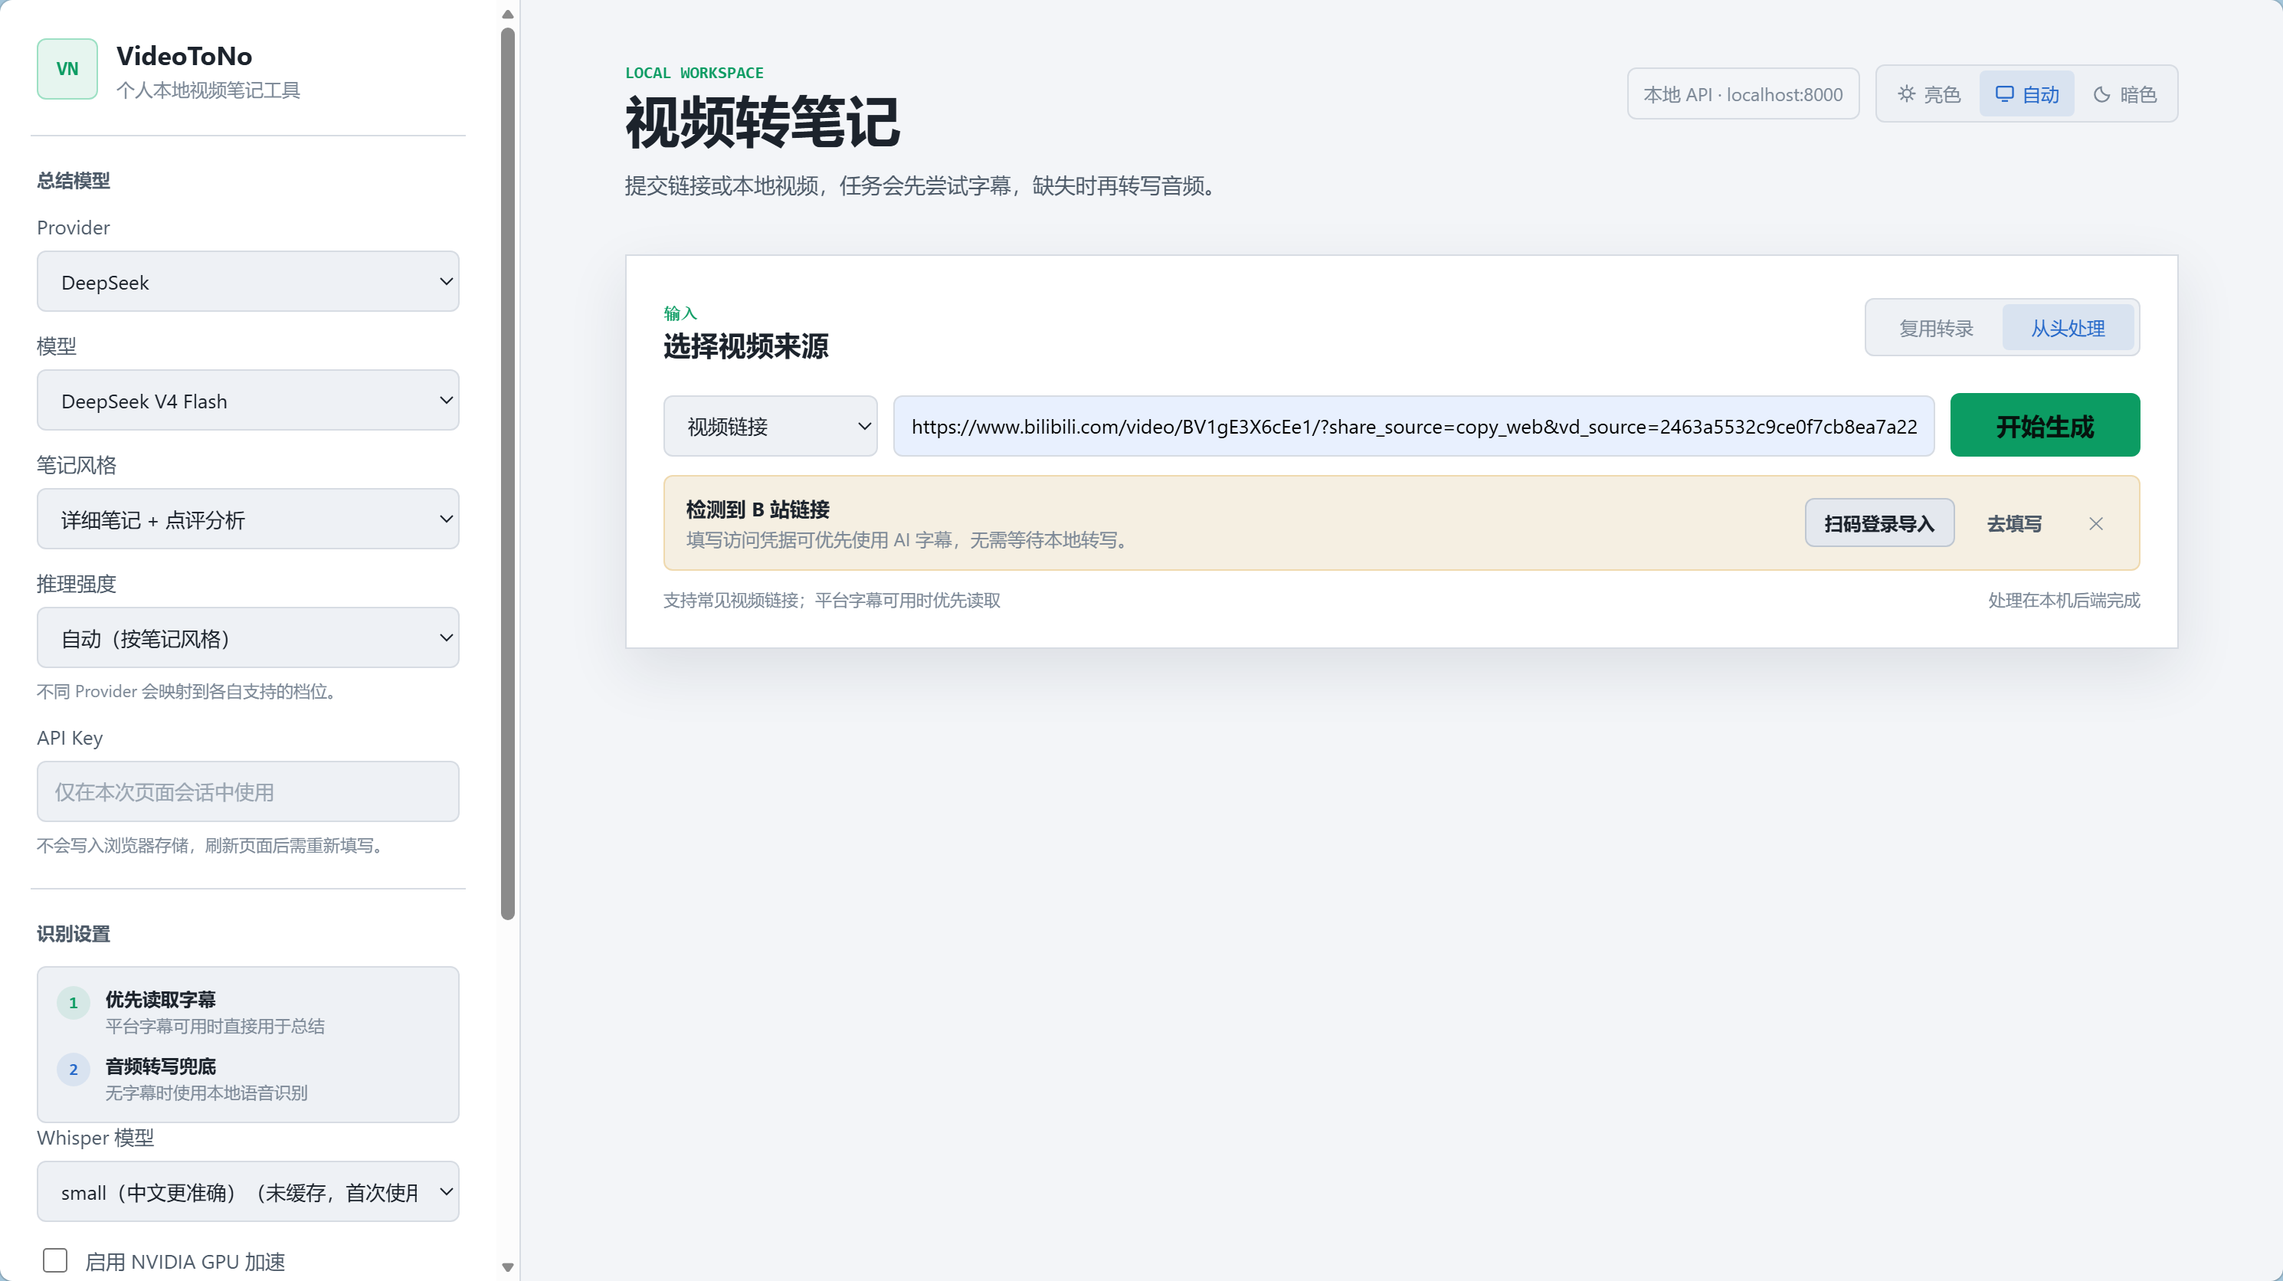
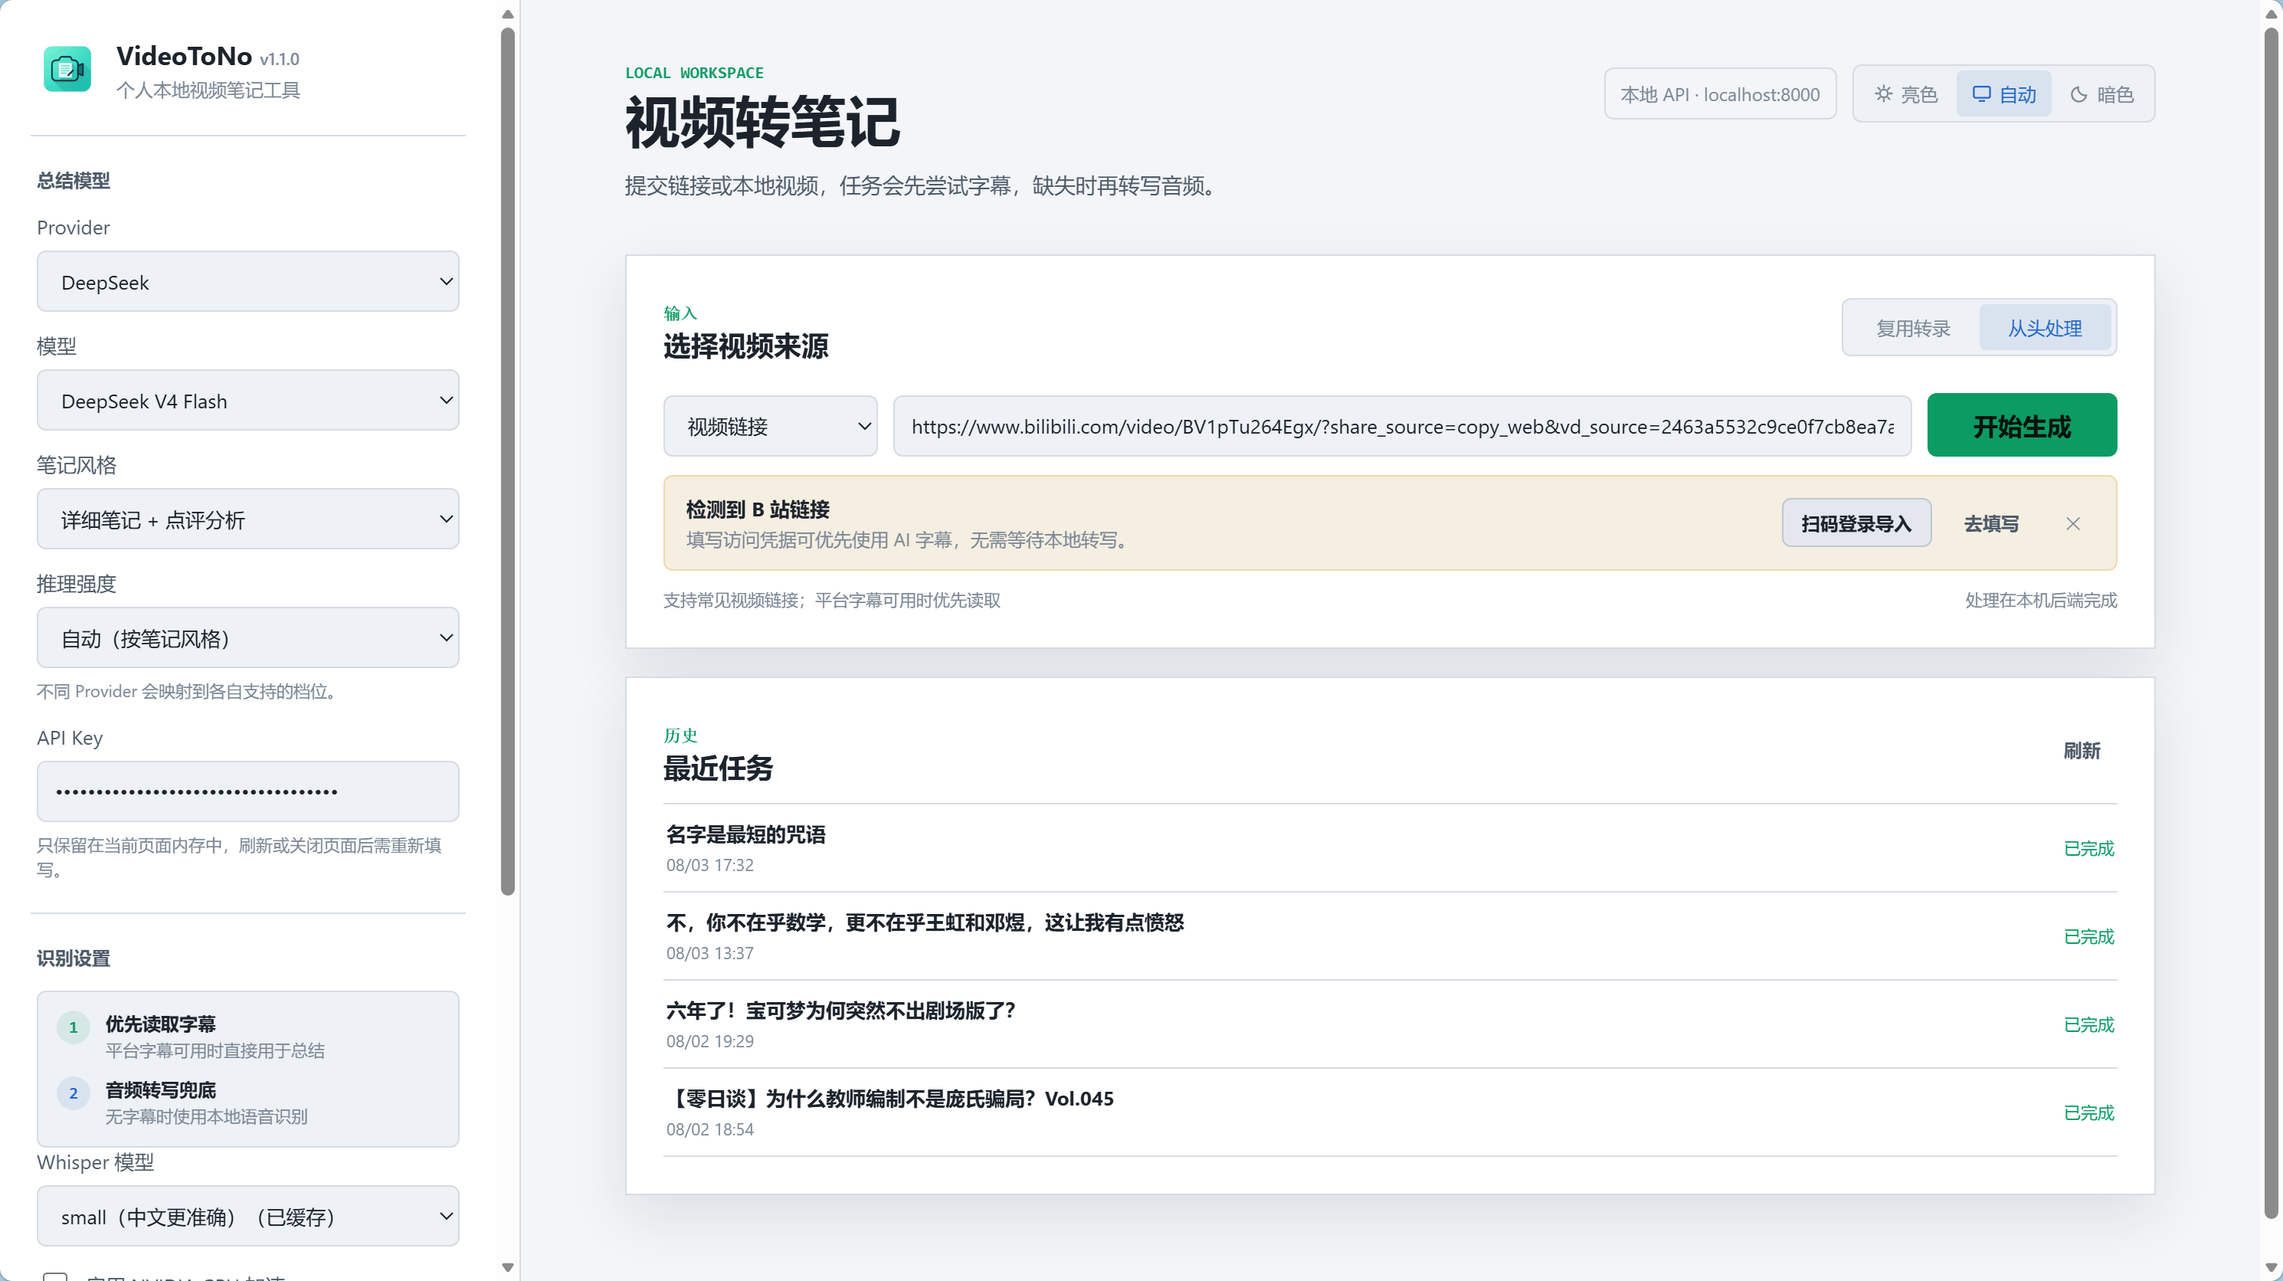
release: v1.1.1

diff --git a/frontend/style.css b/frontend/style.css
@@ -130,14 +130,10 @@ button, select { cursor: pointer; }
 .brand-mark {
     width: 40px;
     height: 40px;
-    display: grid;
-    place-items: center;
+    display: block;
     flex: none;
-    border: 1px solid rgba(69, 200, 144, 0.45);
-    border-radius: var(--radius);
-    background: var(--green-soft);
-    color: var(--green);
-    font: 700 13px/1 ui-monospace, SFMono-Regular, Consolas, monospace;
+    border-radius: 10px;
+    object-fit: contain;
 }
 
 .brand h1, .brand p, .workspace-header h2, .workspace-header p, .section-heading h3,
@@ -440,10 +436,10 @@ input:disabled, select:disabled { opacity: 0.55; cursor: not-allowed; }
 .progress-bar { height: 7px; overflow: hidden; border-radius: 4px; background: var(--surface-soft); }
 .progress-fill { width: 0; height: 100%; border-radius: inherit; background: var(--green); transition: width 250ms ease; }
 .llm-active .progress-fill { background: repeating-linear-gradient(110deg, var(--green) 0 18px, var(--blue) 18px 28px); background-size: 180% 100%; animation: progress-working 1.8s linear infinite; }
-.progress-steps { display: grid; grid-template-columns: .7fr .7fr .8fr 1.2fr .7fr 2.2fr; gap: 8px; margin: 18px 0 24px; padding: 0; list-style: none; }
-.step { display: flex; align-items: center; gap: 7px; color: var(--text-muted); font-size: 11px; }
+.progress-steps { display: grid; grid-template-columns: repeat(6, minmax(0, 1fr)); gap: 8px; margin: 18px 0 24px; padding: 0; list-style: none; }
+.step { min-width: 0; display: flex; align-items: center; justify-content: center; gap: 7px; color: var(--text-muted); font-size: 11px; }
 .step span { width: 22px; height: 22px; display: grid; place-items: center; flex: none; border: 1px solid var(--border-strong); border-radius: 50%; font: 700 10px/1 ui-monospace, SFMono-Regular, Consolas, monospace; }
-.step em { overflow: hidden; font-style: normal; text-overflow: ellipsis; white-space: nowrap; }
+.step em { min-width: 0; overflow: hidden; font-style: normal; text-overflow: ellipsis; white-space: nowrap; }
 .step.active { color: var(--blue); }
 .step.active span { border-color: var(--blue); background: var(--blue-soft); }
 .step.completed { color: var(--green); }

diff --git a/frontend/index.html b/frontend/index.html
@@ -16,9 +16,9 @@
 <div class="app-shell">
     <aside class="sidebar" aria-label="处理配置">
         <div class="brand">
-            <div class="brand-mark" aria-hidden="true">VN</div>
+            <img class="brand-mark" src="/icon.png" alt="" aria-hidden="true" width="40" height="40">
             <div>
-                <h1>VideoToNo <span id="appVersion" class="app-version">v1.1.0</span></h1>
+                <h1>VideoToNo <span id="appVersion" class="app-version">v1.1.1</span></h1>
                 <p>个人本地视频笔记工具</p>
             </div>
         </div>

diff --git a/backend/llm_summarizer.py b/backend/llm_summarizer.py
@@ -80,16 +80,21 @@ class LLMSummarizer:
         else:
             condensed_chunks: list[str] = []
             for index, chunk in enumerate(chunks, start=1):
+                chunk_progress = 5 + int(52 * (index - 1) / len(chunks))
+                chunk_stage = f"正在整理第 {index}/{len(chunks)} 个转录片段"
                 await self._report_progress(
                     progress_callback,
-                    5 + int(52 * (index - 1) / len(chunks)),
-                    f"正在整理第 {index}/{len(chunks)} 个转录片段",
+                    chunk_progress,
+                    chunk_stage,
                 )
                 condensed_chunks.append(
                     await self._complete(
                         self._chunk_prompt(title, index, len(chunks), chunk),
                         max_tokens=1_200,
                         effort=self._stage_effort(reasoning_effort, style, "notes"),
+                        progress_callback=progress_callback,
+                        progress=chunk_progress,
+                        stage=chunk_stage,
                     )
                 )
             await self._report_progress(
@@ -108,19 +113,29 @@ class LLMSummarizer:
             )
 
         max_tokens = {"detailed": 4_600, "faithful": 4_600, "concise": 2_400}[style]
-        await self._report_progress(progress_callback, 78, "正在生成完整笔记")
+        draft_progress = 78
+        draft_stage = "正在生成完整笔记"
+        await self._report_progress(progress_callback, draft_progress, draft_stage)
         draft = await self._complete(
             self._note_prompt(title, source, metadata or {}, style),
             max_tokens=max_tokens,
             effort=self._stage_effort(reasoning_effort, style, "notes"),
+            progress_callback=progress_callback,
+            progress=draft_progress,
+            stage=draft_stage,
         )
         await self._report_progress(progress_callback, 91, "完整笔记初稿已生成")
         if style == "detailed":
-            await self._report_progress(progress_callback, 93, "正在补充点评与分析")
+            analysis_progress = 93
+            analysis_stage = "正在补充点评与分析"
+            await self._report_progress(progress_callback, analysis_progress, analysis_stage)
             analysis = await self._complete(
                 self._analysis_prompt(title, draft),
                 max_tokens=3_200,
                 effort=self._stage_effort(reasoning_effort, style, "analysis"),
+                progress_callback=progress_callback,
+                progress=analysis_progress,
+                stage=analysis_stage,
             )
             draft = f"{draft.rstrip()}\n\n{analysis.lstrip()}"
         await self._report_progress(progress_callback, 99, "正在保存笔记")
@@ -142,16 +157,21 @@ class LLMSummarizer:
             level += 1
             merged: list[str] = []
             for index, group in enumerate(groups, start=1):
+                merge_progress = min(75, 61 + level * 4 + int(4 * index / len(groups)))
+                merge_stage = f"正在归并第 {level} 层内容 {index}/{len(groups)} 组"
                 await self._report_progress(
                     progress_callback,
-                    min(75, 61 + level * 4 + int(4 * index / len(groups))),
-                    f"正在归并第 {level} 层内容 {index}/{len(groups)}",
+                    merge_progress,
+                    merge_stage,
                 )
                 merged.append(
                     await self._complete(
                         self._merge_prompt(title, level, index, len(groups), group),
                         max_tokens=1_400,
                         effort=self._stage_effort(reasoning_effort, style, "notes"),
+                        progress_callback=progress_callback,
+                        progress=merge_progress,
+                        stage=merge_stage,
                     )
                 )
             notes = merged
@@ -197,6 +217,9 @@ class LLMSummarizer:
         max_tokens: int,
         effort: str = "auto",
         retry_empty: bool = True,
+        progress_callback: ProgressCallback | None = None,
+        progress: int = 0,
+        stage: str = "模型调用",
     ) -> str:
         request: dict[str, Any] = {
             "model": self.model,
@@ -221,8 +244,18 @@ class LLMSummarizer:
         content = response.choices[0].message.content if response.choices else None
         if not content:
             if retry_empty and effort != "off":
-                self.warnings.append("模型未返回正文，已关闭深度思考自动重试一次")
-                return await self._complete(prompt, max_tokens, "off", retry_empty=False)
+                warning = f"{stage}：模型首次未返回正文，已关闭深度思考并重试"
+                self.warnings.append(warning)
+                await self._report_progress(progress_callback, progress, warning)
+                return await self._complete(
+                    prompt,
+                    max_tokens,
+                    "off",
+                    retry_empty=False,
+                    progress_callback=progress_callback,
+                    progress=progress,
+                    stage=stage,
+                )
             finish_reason = response.choices[0].finish_reason if response.choices else "unknown"
             raise RuntimeError(
                 f"模型未返回正文（finish_reason={finish_reason}）。"

diff --git a/tests/test_summarizer.py b/tests/test_summarizer.py
@@ -75,7 +75,7 @@ async def test_short_transcript_uses_one_call_or_two_focused_calls() -> None:
     summarizer.warnings = []
     calls: list[str] = []
 
-    async def complete(prompt, max_tokens, effort="auto", retry_empty=True):
+    async def complete(prompt, max_tokens, effort="auto", retry_empty=True, **kwargs):
         calls.append(effort)
         return "## 点评与分析" if "点评与分析" in prompt else "# 视频笔记"
 
@@ -99,7 +99,7 @@ async def test_long_transcript_uses_hierarchical_reduction_and_reports_progress(
     calls: list[str] = []
     progress: list[int] = []
 
-    async def complete(prompt, max_tokens, effort="auto", retry_empty=True):
+    async def complete(prompt, max_tokens, effort="auto", retry_empty=True, **kwargs):
         calls.append(prompt)
         if "这是第" in prompt and "个连续片段" in prompt:
             return "片段材料" * 1_500
@@ -152,6 +152,7 @@ async def test_gpt5_chat_completion_uses_supported_token_parameter() -> None:
 @pytest.mark.asyncio
 async def test_empty_thinking_response_retries_with_thinking_disabled() -> None:
     requests: list[dict] = []
+    progress: list[tuple[int, str]] = []
 
     async def create(**kwargs):
         requests.append(kwargs)
@@ -172,7 +173,25 @@ async def test_empty_thinking_response_retries_with_thinking_disabled() -> None:
         chat=SimpleNamespace(completions=SimpleNamespace(create=create))
     )
 
-    assert await summarizer._complete("测试", 800, "high") == "重试成功"
+    def report(value: int, message: str) -> None:
+        progress.append((value, message))
+
+    assert (
+        await summarizer._complete(
+            "测试",
+            800,
+            "high",
+            progress_callback=report,
+            progress=93,
+            stage="正在补充点评与分析",
+        )
+        == "重试成功"
+    )
     assert requests[0]["extra_body"]["thinking"]["type"] == "enabled"
     assert requests[1]["extra_body"]["thinking"]["type"] == "disabled"
-    assert summarizer.warnings
+    assert progress == [
+        (93, "正在补充点评与分析：模型首次未返回正文，已关闭深度思考并重试")
+    ]
+    assert summarizer.warnings == [
+        "正在补充点评与分析：模型首次未返回正文，已关闭深度思考并重试"
+    ]

diff --git a/backend/main.py b/backend/main.py
@@ -44,6 +44,7 @@ WHISPER_CACHE_DIR = Path(
     os.getenv("WHISPER_CACHE_DIR", str(WORKSPACE_DIR / "_model_cache"))
 ).resolve()
 FRONTEND_DIR = BASE_DIR / "frontend"
+APP_ICON_PATH = BASE_DIR / "sources" / "icon.png"
 FAVICON_PATH = BASE_DIR / "sources" / "icon.ico"
 MAX_UPLOAD_BYTES = int(os.getenv("MAX_UPLOAD_MB", "500")) * 1024 * 1024
 MAX_CONCURRENT_TASKS = max(1, int(os.getenv("MAX_CONCURRENT_TASKS", "1")))
@@ -67,7 +68,7 @@ DOUYIN_HINT = (
     "请在抖音 App 或网页保存视频后，改用「本地文件」上传处理。"
 )
 
-app = FastAPI(title="VideoToNo API", version="1.1.0")
+app = FastAPI(title="VideoToNo API", version="1.1.1")
 
 
 def is_loopback_client(host: str | None) -> bool:
@@ -957,7 +958,9 @@ async def process_video_task(task_id: str, request: SummarizeRequest) -> None:
             progress_callback=report_llm_progress,
         )
         raise_if_cancel_requested(task)
-        task["logs"].extend(getattr(summarizer, "warnings", []))
+        for warning in getattr(summarizer, "warnings", []):
+            if warning not in task["logs"]:
+                task["logs"].append(warning)
         if screenshots:
             summary += "\n\n## 视频截图\n\n" + "\n\n".join(
                 f"![截图 {index}](./images/{path.name})"
@@ -1151,6 +1154,13 @@ try:
 except ImportError:
     # mcp 依赖未安装时跳过，不影响主服务
     pass
+
+
+@app.get("/icon.png", include_in_schema=False)
+async def app_icon() -> FileResponse:
+    if not APP_ICON_PATH.is_file():
+        raise HTTPException(status_code=404, detail="应用图标不存在")
+    return FileResponse(APP_ICON_PATH, media_type="image/png")
 
 
 @app.get("/favicon.ico", include_in_schema=False)

diff --git a/tests/test_api.py b/tests/test_api.py
@@ -15,7 +15,7 @@ def test_health_and_frontend_are_served() -> None:
     client = TestClient(main.app)
     health = client.get("/api/health")
     assert health.status_code == 200
-    assert health.json()["version"] == "1.1.0"
+    assert health.json()["version"] == "1.1.1"
     assert health.json()["version"] == launcher.VERSION
     assert health.json()["service"] == "VideoToNo"
     page = client.get("/")
@@ -28,11 +28,15 @@ def test_health_and_frontend_are_served() -> None:
     assert 'id="recentTaskList"' in page.text
     assert 'id="copyNoteBtn"' in page.text
     assert 'value="png"' in page.text
+    assert 'class="brand-mark" src="/icon.png"' in page.text
     assert "记住 LLM 配置" not in page.text
     assert "default-src 'self'" in page.headers["content-security-policy"]
     favicon = client.get("/favicon.ico")
     assert favicon.status_code == 200
     assert favicon.headers["content-type"].startswith("image/x-icon")
+    app_icon = client.get("/icon.png")
+    assert app_icon.status_code == 200
+    assert app_icon.headers["content-type"].startswith("image/png")
 
 
 def test_frontend_sanitizes_generated_markdown() -> None:

diff --git a/launcher.py b/launcher.py
@@ -24,7 +24,7 @@ import webbrowser
 from pathlib import Path
 from typing import Any
 
-VERSION = "1.1.0"
+VERSION = "1.1.1"
 DEFAULT_PORT = 8000
 PORT_SCAN_RANGE = 20
 START_TIMEOUT_SECONDS = 60

diff --git a/README_EN.md b/README_EN.md
@@ -6,6 +6,13 @@ VideoToNo is a local video-to-notes tool intended for personal use. It reads a v
 
 The web interface and API are served by the same FastAPI process at <http://127.0.0.1:8000> by default.
 
+## VideoToNo 1.1.1
+
+- Replaces the top-left product-page brand mark with the shared `sources/icon.png`, matching the desktop and tray icon.
+- Spaces the six processing stages evenly while keeping the two-column layout on narrow screens.
+- Shows empty-response retry messages immediately with the affected long-video stage, instead of appending a misleading warning after generation finishes.
+- Updates the configuration, processing-progress, and generated-note screenshots.
+
 ## VideoToNo 1.1.0
 
 - Shows the current version in the UI and lets users delete failed history entries together with their local artifacts.
@@ -101,7 +108,7 @@ Open <http://127.0.0.1:8000> to use the app (frontend and API share this port); 
 
 ## Portable build (Windows exe)
 
-No Python installation is required. Check the [latest GitHub Release](https://github.com/like-attract/video-to-note/releases/latest) first. If that release includes `VideoToNo-1.1.0-portable.exe`, download it and double-click it. The source repository itself does not imply that a portable asset is currently available.
+No Python installation is required. Check the [latest GitHub Release](https://github.com/like-attract/video-to-note/releases/latest) first. If that release includes `VideoToNo-1.1.1-portable.exe`, download it and double-click it. The source repository itself does not imply that a portable asset is currently available.
 
 - The portable build has no console window. It starts the local backend, opens the default browser, and remains in the system tray; use the tray menu to open the interface, view logs, or exit.
 - If port 8000 is busy it picks the next free port; if the service is already running, a second launch just opens the browser.
@@ -114,7 +121,7 @@ To build it yourself (needs Python 3.11 with installed dependencies):
 .\scripts\build_exe.ps1
 ```
 
-The artifact is `dist\VideoToNo-1.1.0-portable.exe`. It has no console window and remains in the system tray; logs are written to `_app.log` in the workspace. The app uses `sources/icon.ico`, which can be regenerated from `sources/icon.png` with `scripts/make_icon.py`.
+The artifact is `dist\VideoToNo-1.1.1-portable.exe`. It has no console window and remains in the system tray; logs are written to `_app.log` in the workspace. The app uses `sources/icon.ico`, which can be regenerated from `sources/icon.png` with `scripts/make_icon.py`.
 
 Only the Windows portable build is currently released and maintained; no macOS artifact or compatibility guarantee is provided.
 
